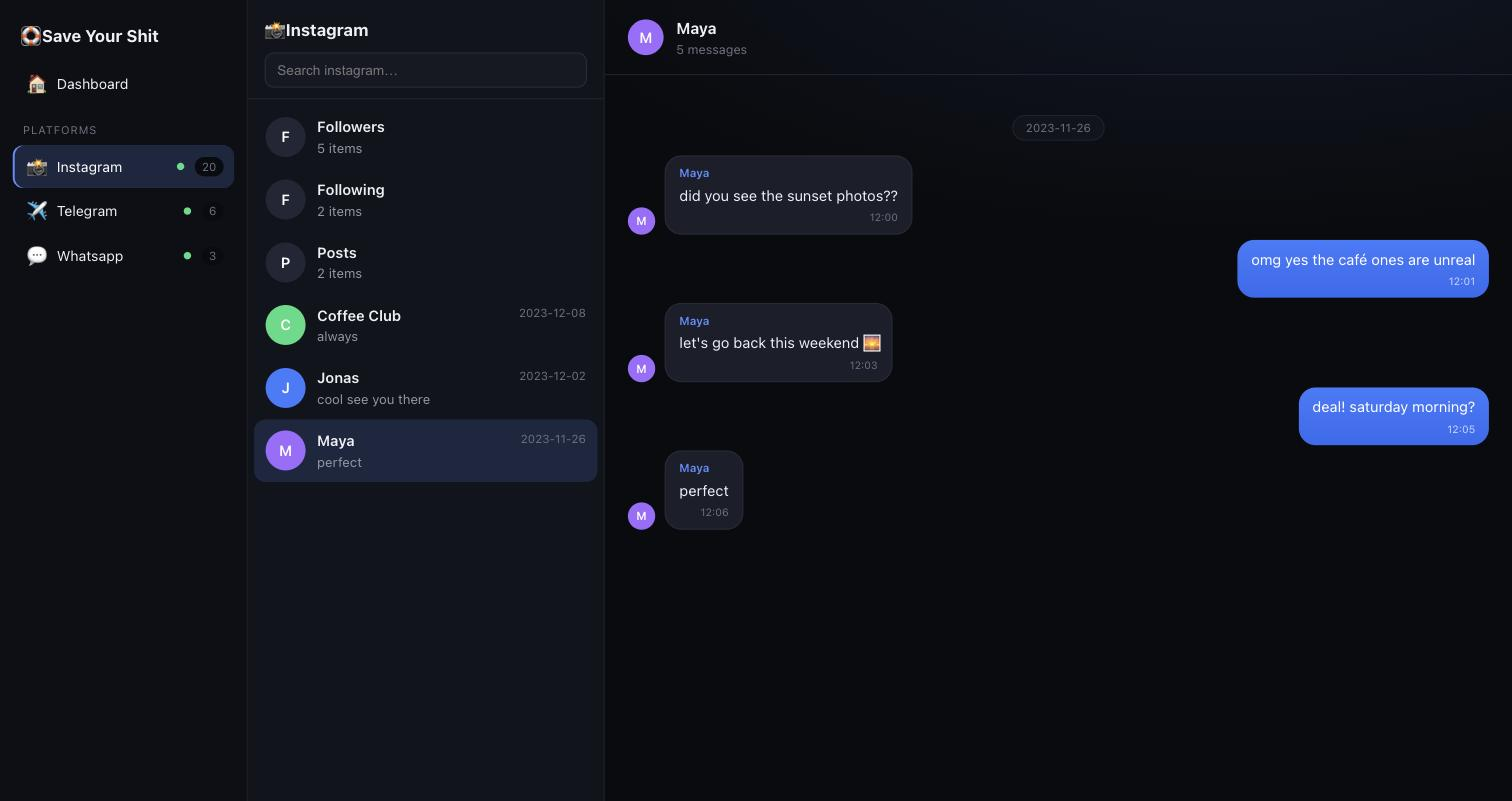
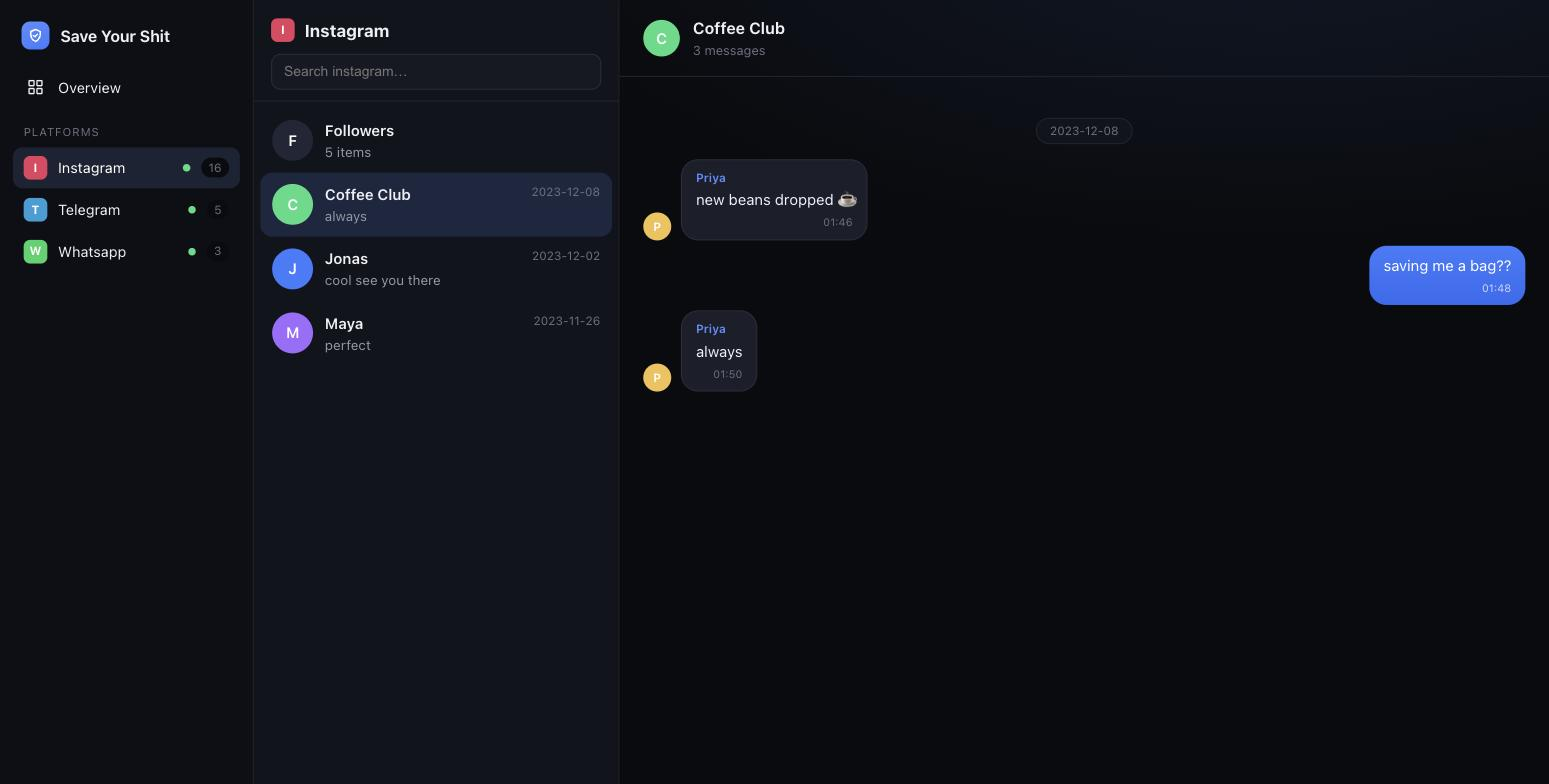
Polish the web UI (no emojis) and fix leftover README conflict markers
- Web app: replaced the random emoji platform icons with brand-colored initial
  tiles, a proper SVG shield mark, and a grid "Overview" icon; status shown as
  colored dots + words ("Up to date"/"Stale") instead of symbols. Cleaner,
  professional look; the only emoji you'll now see is inside your actual messages.
- README: removed the emoji from the title, refreshed the screenshots to the new
  UI, added `syt check` to the quickstart, and REMOVED leftover git conflict
  markers that were rendering the README broken on GitHub.

diff --git a/src/saveyourshit/webapp.py b/src/saveyourshit/webapp.py
@@ -150,12 +150,19 @@ INDEX_HTML = r"""<!doctype html>
 
   /* ---- rail: platforms ---- */
   .rail{ background:var(--rail); border-right:1px solid var(--line); padding:16px 12px; overflow:auto; }
-  .brand{ display:flex; align-items:center; gap:9px; font-weight:700; font-size:16px; padding:6px 8px 14px; }
-  .rail a{ display:flex; align-items:center; gap:10px; padding:9px 10px; border-radius:10px;
-           color:var(--text); cursor:pointer; margin-bottom:2px; font-size:13.5px; }
+  .brand{ display:flex; align-items:center; gap:10px; font-weight:650; font-size:15px;
+          letter-spacing:-.01em; padding:4px 8px 16px; }
+  .brand .mark{ width:26px; height:26px; border-radius:8px; flex:none;
+                background:linear-gradient(160deg,var(--accent2),var(--accent));
+                display:grid; place-items:center; }
+  .rail a{ display:flex; align-items:center; gap:10px; padding:8px 10px; border-radius:9px;
+           color:var(--text); cursor:pointer; margin-bottom:1px; font-size:13.5px; }
   .rail a:hover{ background:var(--hover); }
-  .rail a.active{ background:#1d2740; color:#fff; box-shadow:inset 2px 0 0 var(--accent2); }
-  .rail a .ico{ width:22px; text-align:center; font-size:15px; }
+  .rail a.active{ background:#1c2333; color:#fff; }
+  .rail a .ico{ width:22px; height:22px; flex:none; display:grid; place-items:center; }
+  .tile{ width:22px; height:22px; border-radius:6px; display:grid; place-items:center;
+         font-size:11px; font-weight:700; color:#fff; }
+  .tile.lg{ width:30px; height:30px; border-radius:8px; font-size:14px; }
   .rail a .nm{ flex:1; text-transform:capitalize; }
   .rail a .ct{ font-size:11px; color:var(--dim2); background:#0a0c12; padding:1px 7px; border-radius:20px; }
   .rail .sec{ color:var(--dim2); font-size:10.5px; text-transform:uppercase; letter-spacing:.08em;
@@ -165,7 +172,8 @@ INDEX_HTML = r"""<!doctype html>
   /* ---- middle: conversations ---- */
   .list{ background:var(--panel); border-right:1px solid var(--line); display:flex; flex-direction:column; min-width:0; }
   .list .hd{ padding:16px 16px 10px; border-bottom:1px solid var(--line); }
-  .list .hd h2{ margin:0 0 10px; font-size:16px; text-transform:capitalize; }
+  .list .hd h2{ margin:0 0 10px; font-size:16px; text-transform:capitalize;
+                display:flex; align-items:center; gap:9px; }
   .search{ width:100%; background:var(--panel2); border:1px solid var(--line2); color:var(--text);
            border-radius:9px; padding:8px 11px; font-size:13px; outline:none; }
   .search:focus{ border-color:var(--accent); }
@@ -232,10 +240,12 @@ INDEX_HTML = r"""<!doctype html>
   <section class="pane" id="pane"><div class="empty">Loading your archive…</div></section>
 </div>
 <script>
-const EMOJI={instagram:"📸",facebook:"👤",discord:"🎮",twitter:"🐦",telegram:"✈",
-  reddit:"👽",whatsapp:"💬",google:"🔴",slack:"💼",snapchat:"👻",linkedin:"🔗"};
+const BRAND={instagram:"#e4405f",facebook:"#1877f2",discord:"#5865f2",twitter:"#1d9bf0",
+  telegram:"#229ed9",reddit:"#ff4500",whatsapp:"#25d366",google:"#4285f4",slack:"#611f69",
+  snapchat:"#c9b400",linkedin:"#0a66c2"};
 const AV=["#e0567a","#f0883e","#3ddc84","#3d7bfd","#a06bff","#00b8c4","#ff6b6b","#f2c14e"];
-function emo(id){return EMOJI[id]||"🗂";}
+function brandColor(id){return BRAND[id]||"#3d4152";}
+function tile(id,cls){return `<span class="tile ${cls||''}" style="background:${brandColor(id)}">${(id[0]||'?').toUpperCase()}</span>`;}
 function esc(s){const d=document.createElement('div');d.textContent=s==null?'':s;return d.innerHTML;}
 function avColor(s){let h=0;for(const c of (s||'?'))h=(h*31+c.charCodeAt(0))>>>0;return AV[h%AV.length];}
 function initial(s){return (s||'?').trim()[0]?.toUpperCase()||'?';}
@@ -249,13 +259,20 @@ async function boot(){
   renderRail(); showDashboard();
 }
 function renderRail(){
-  let h=`<div class="brand">🛟 Save Your Shit</div>`;
-  h+=`<a class="${active?'':'active'}" onclick="showDashboard()"><span class="ico">🏠</span><span class="nm">Dashboard</span></a>`;
+  const logo=`<span class="mark"><svg width="15" height="15" viewBox="0 0 24 24" fill="none"
+    stroke="#fff" stroke-width="2.2" stroke-linecap="round" stroke-linejoin="round">
+    <path d="M12 3l7 3v5c0 4.5-3 8-7 10-4-2-7-5.5-7-10V6z"/><path d="M9 12l2 2 4-4"/></svg></span>`;
+  let h=`<div class="brand">${logo}Save Your Shit</div>`;
+  h+=`<a class="${active?'':'active'}" onclick="showDashboard()"><span class="ico">`
+    +`<svg width="16" height="16" viewBox="0 0 24 24" fill="none" stroke="currentColor" stroke-width="2"`
+    +` stroke-linecap="round" stroke-linejoin="round"><rect x="3" y="3" width="7" height="7" rx="1"/>`
+    +`<rect x="14" y="3" width="7" height="7" rx="1"/><rect x="3" y="14" width="7" height="7" rx="1"/>`
+    +`<rect x="14" y="14" width="7" height="7" rx="1"/></svg></span><span class="nm">Overview</span></a>`;
   h+=`<div class="sec">Platforms</div>`;
   for(const c of STATUS.connectors){
     const col=c.stale?'var(--warn)':(c.last_status==='error'?'var(--bad)':'var(--good)');
     h+=`<a class="${active===c.connector?'active':''}" onclick="openConnector('${c.connector}')">
-      <span class="ico">${emo(c.connector)}</span><span class="nm">${esc(c.connector)}</span>
+      <span class="ico">${tile(c.connector)}</span><span class="nm">${esc(c.connector)}</span>
       <span class="dot" style="background:${col}"></span><span class="ct">${c.records.toLocaleString()}</span></a>`;
   }
   document.getElementById('rail').innerHTML=h;
@@ -266,14 +283,15 @@ function showDashboard(){
   document.querySelector('.app').style.gridTemplateColumns='236px 1fr';
   const s=STATUS;
   const cards=s.connectors.map(c=>{
-    const st=c.last_status===null?'never run':(c.stale?'⚠ stale':(c.last_status==='error'?'error':'✓ up to date'));
+    const col=c.stale?'var(--warn)':(c.last_status==='error'?'var(--bad)':'var(--good)');
+    const st=c.last_status===null?'Never run':(c.stale?'Stale':(c.last_status==='error'?'Error':'Up to date'));
     return `<div class="pcard" onclick="openConnector('${c.connector}')">
-      <div class="h">${emo(c.connector)} ${esc(c.connector)}</div>
+      <div class="h">${tile(c.connector)} ${esc(c.connector)}</div>
       <div class="n">${c.records.toLocaleString()}</div>
-      <div class="s">${st} · ${fmtRel(c.last_run_at)||'—'}</div></div>`;}).join('');
+      <div class="s"><span class="dot" style="background:${col}"></span> ${st} · ${fmtRel(c.last_run_at)||'—'}</div></div>`;}).join('');
   document.getElementById('pane').innerHTML=`<div class="dash">
     <h1>Your archive</h1>
-    <div class="sub">${s.encrypted?'🔒 encrypted':'⚠ not encrypted'} · lives on your machine at <code>${esc(s.home)}</code></div>
+    <div class="sub">${s.encrypted?'Encrypted':'Not encrypted'} · lives on your machine at <code>${esc(s.home)}</code></div>
     <div class="stats">
       <div class="stat"><div class="n">${s.total_records.toLocaleString()}</div><div class="l">items</div></div>
       <div class="stat"><div class="n">${s.connectors.length}</div><div class="l">platforms</div></div>
@@ -295,7 +313,7 @@ async function openConnector(id){
   for(const [ty,label] of [['follower','Followers'],['following','Following'],['post','Posts'],['saved','Saved']]){
     if(tc[ty]) specials.push({ty,label,count:tc[ty]});
   }
-  list.innerHTML=`<div class="hd"><h2>${emo(id)} ${esc(id)}</h2>
+  list.innerHTML=`<div class="hd"><h2>${tile(id)} ${esc(id)}</h2>
       <input class="search" id="q" placeholder="Search ${esc(id)}…" oninput="filterThreads()"></div>
     <div class="rows" id="rows"></div>`;
   window._specials=specials;

diff --git a/README.md b/README.md
@@ -1,6 +1,6 @@
 <div align="center">
 
-# 🛟 Save Your Shit
+# Save Your Shit
 
 **A local-first backup for your own social-media data.**
 Instagram, Facebook, Discord, X — your chats, photos, followers, and posts,
@@ -12,26 +12,14 @@ The backup has to already exist.
 </div>
 
 <p align="center">
-<<<<<<< HEAD
-  <img src="docs/screenshots/chat.jpg" alt="Save Your Shit — chat view" width="850">
+  <img src="docs/screenshots/chat.jpg" alt="Save Your Shit — chat view" width="860">
 </p>
 <p align="center">
-  <img src="docs/screenshots/dashboard.jpg" alt="Dashboard" width="420">
-  <img src="docs/screenshots/conversations.jpg" alt="Conversation list" width="420">
+  <img src="docs/screenshots/dashboard.jpg" alt="Dashboard" width="860">
 </p>
 <p align="center"><em>The local web app (<code>syt serve</code>): your DMs as real
 conversations, a dashboard across every platform, and instant full-text search —
 all served from <code>127.0.0.1</code>, nothing leaves your machine.</em></p>
-=======
-  <img src="docs/screenshots/dashboard.jpg" alt="Save Your Shit dashboard" width="850">
-</p>
-<p align="center">
-  <img src="docs/screenshots/browse.jpg" alt="Browsing an Instagram archive" width="420">
-  <img src="docs/screenshots/search.jpg" alt="Searching your archive" width="420">
-</p>
-<p align="center"><em>The local web app (<code>syt serve</code>): a dashboard, per-platform
-browsing, and instant full-text search — all served from <code>127.0.0.1</code>, nothing leaves your machine.</em></p>
->>>>>>> origin/master
 
 ---
 
@@ -62,11 +50,12 @@ curl -LsSf https://raw.githubusercontent.com/arhxam/save-your-shit/master/instal
 Then:
 
 ```bash
-syt init                                   # pick a passphrase, save your Recovery Kit
-syt ingest ~/Downloads/instagram-export.zip   # auto-detects the platform
-syt serve                                  # open the dashboard + viewer in your browser
-syt status                                 # what's backed up and where it lives
-syt search "that thing we talked about"    # full-text search, offline
+syt init                                       # pick a passphrase, save your Recovery Kit
+syt check ~/Downloads/instagram-export.zip     # dry-run: confirm what it found (writes nothing)
+syt ingest ~/Downloads/instagram-export.zip    # auto-detects the platform
+syt serve                                      # open the app (dashboard + chats) in your browser
+syt status                                     # what's backed up and where it lives
+syt search "that thing we talked about"        # full-text search, offline
 ```
 
 Prefer to do it yourself? With [`uv`](https://docs.astral.sh/uv/) or `pipx`:
@@ -123,20 +112,18 @@ X ~7 days), so grab them promptly.
 
 Run `syt connectors` to see everything supported.
 
-<<<<<<< HEAD
 **The simplest habit:** drop your exports in one folder and let it sweep them up:
 
 ```bash
-syt ingest ~/Downloads --all     # ingests every export it recognizes; safe to re-run
-syt schedule --every daily       # (optional) do that automatically
+syt check ~/Downloads/instagram-export.zip   # dry-run: see exactly what it found first
+syt ingest ~/Downloads --all                 # ingests every export it recognizes; safe to re-run
+syt schedule --every daily                   # (optional) do that automatically
 ```
 
 That's the whole motion: download → it lands in a folder → a scheduled `ingest --all`
 picks it up → it shows up in the app. See [docs/ARCHITECTURE.md](docs/ARCHITECTURE.md)
 for how every piece connects.
 
-=======
->>>>>>> origin/master
 ## Your data & your keys
 
 - **Encryption is on by default.** Your archive is encrypted with a key wrapped by
